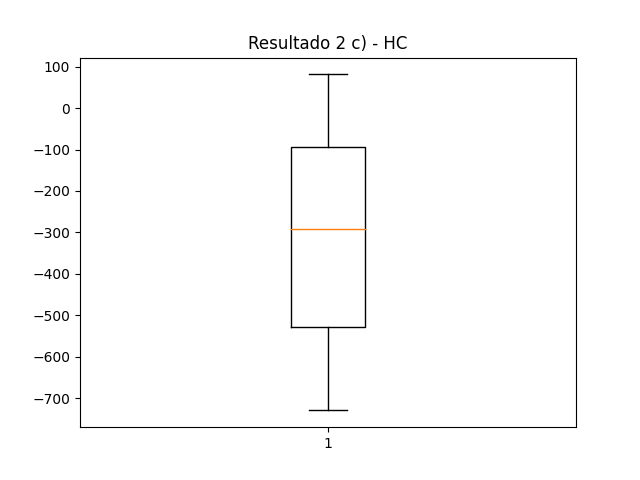
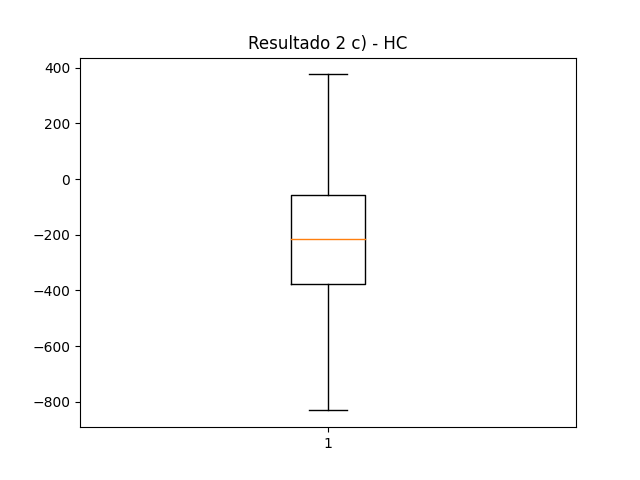
Correcao funcao objetivo2

diff --git a/Resultado2 Utilizado/main.py b/Resultado2 Utilizado/main.py
@@ -20,7 +20,7 @@ def objetivo1(v):
 
 def objetivo2(v):
     x, y = v
-    return (-(y+47)*sin(sqrt(abs((x/2) + (y+47)))) - x*sin(sqrt(abs(x-(y+47)))))
+    return (-(y+47)*sin(sqrt(abs(x/2 + (y+47)))) - x*sin(sqrt(abs(x-y+47))))
 
 
 #1
